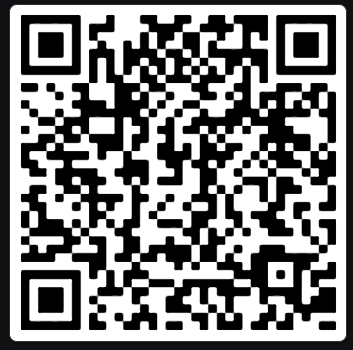
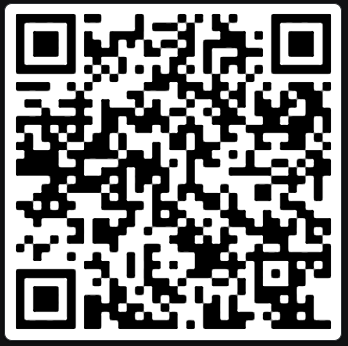
fix: Update EAS build link in README and replace QR code image for accurate installation reference

diff --git a/README.md b/README.md
@@ -23,7 +23,7 @@ Install the latest build directly on any Android device — no Play Store requir
 
 | Build                    | Date       | Profile   | Download / QR                                                                                                       |
 | ------------------------ | ---------- | --------- | ------------------------------------------------------------------------------------------------------------------- |
-| v1.0.0 — Initial Release | 2026-02-21 | `preview` | [EAS Build Link](https://expo.dev/accounts/danish-expo/projects/my-app/builds/1ca0f36e-ed9d-4281-a371-8ae96c5b2bc6) |
+| v1.0.0 — Initial Release | 2026-02-21 | `preview` | [EAS Build Link](https://expo.dev/accounts/danish-expo/projects/my-app/builds/711b0644-3d65-4a6f-9c73-e138b4b2cbf9) |
 
 **Scan to install on Android:**
 
